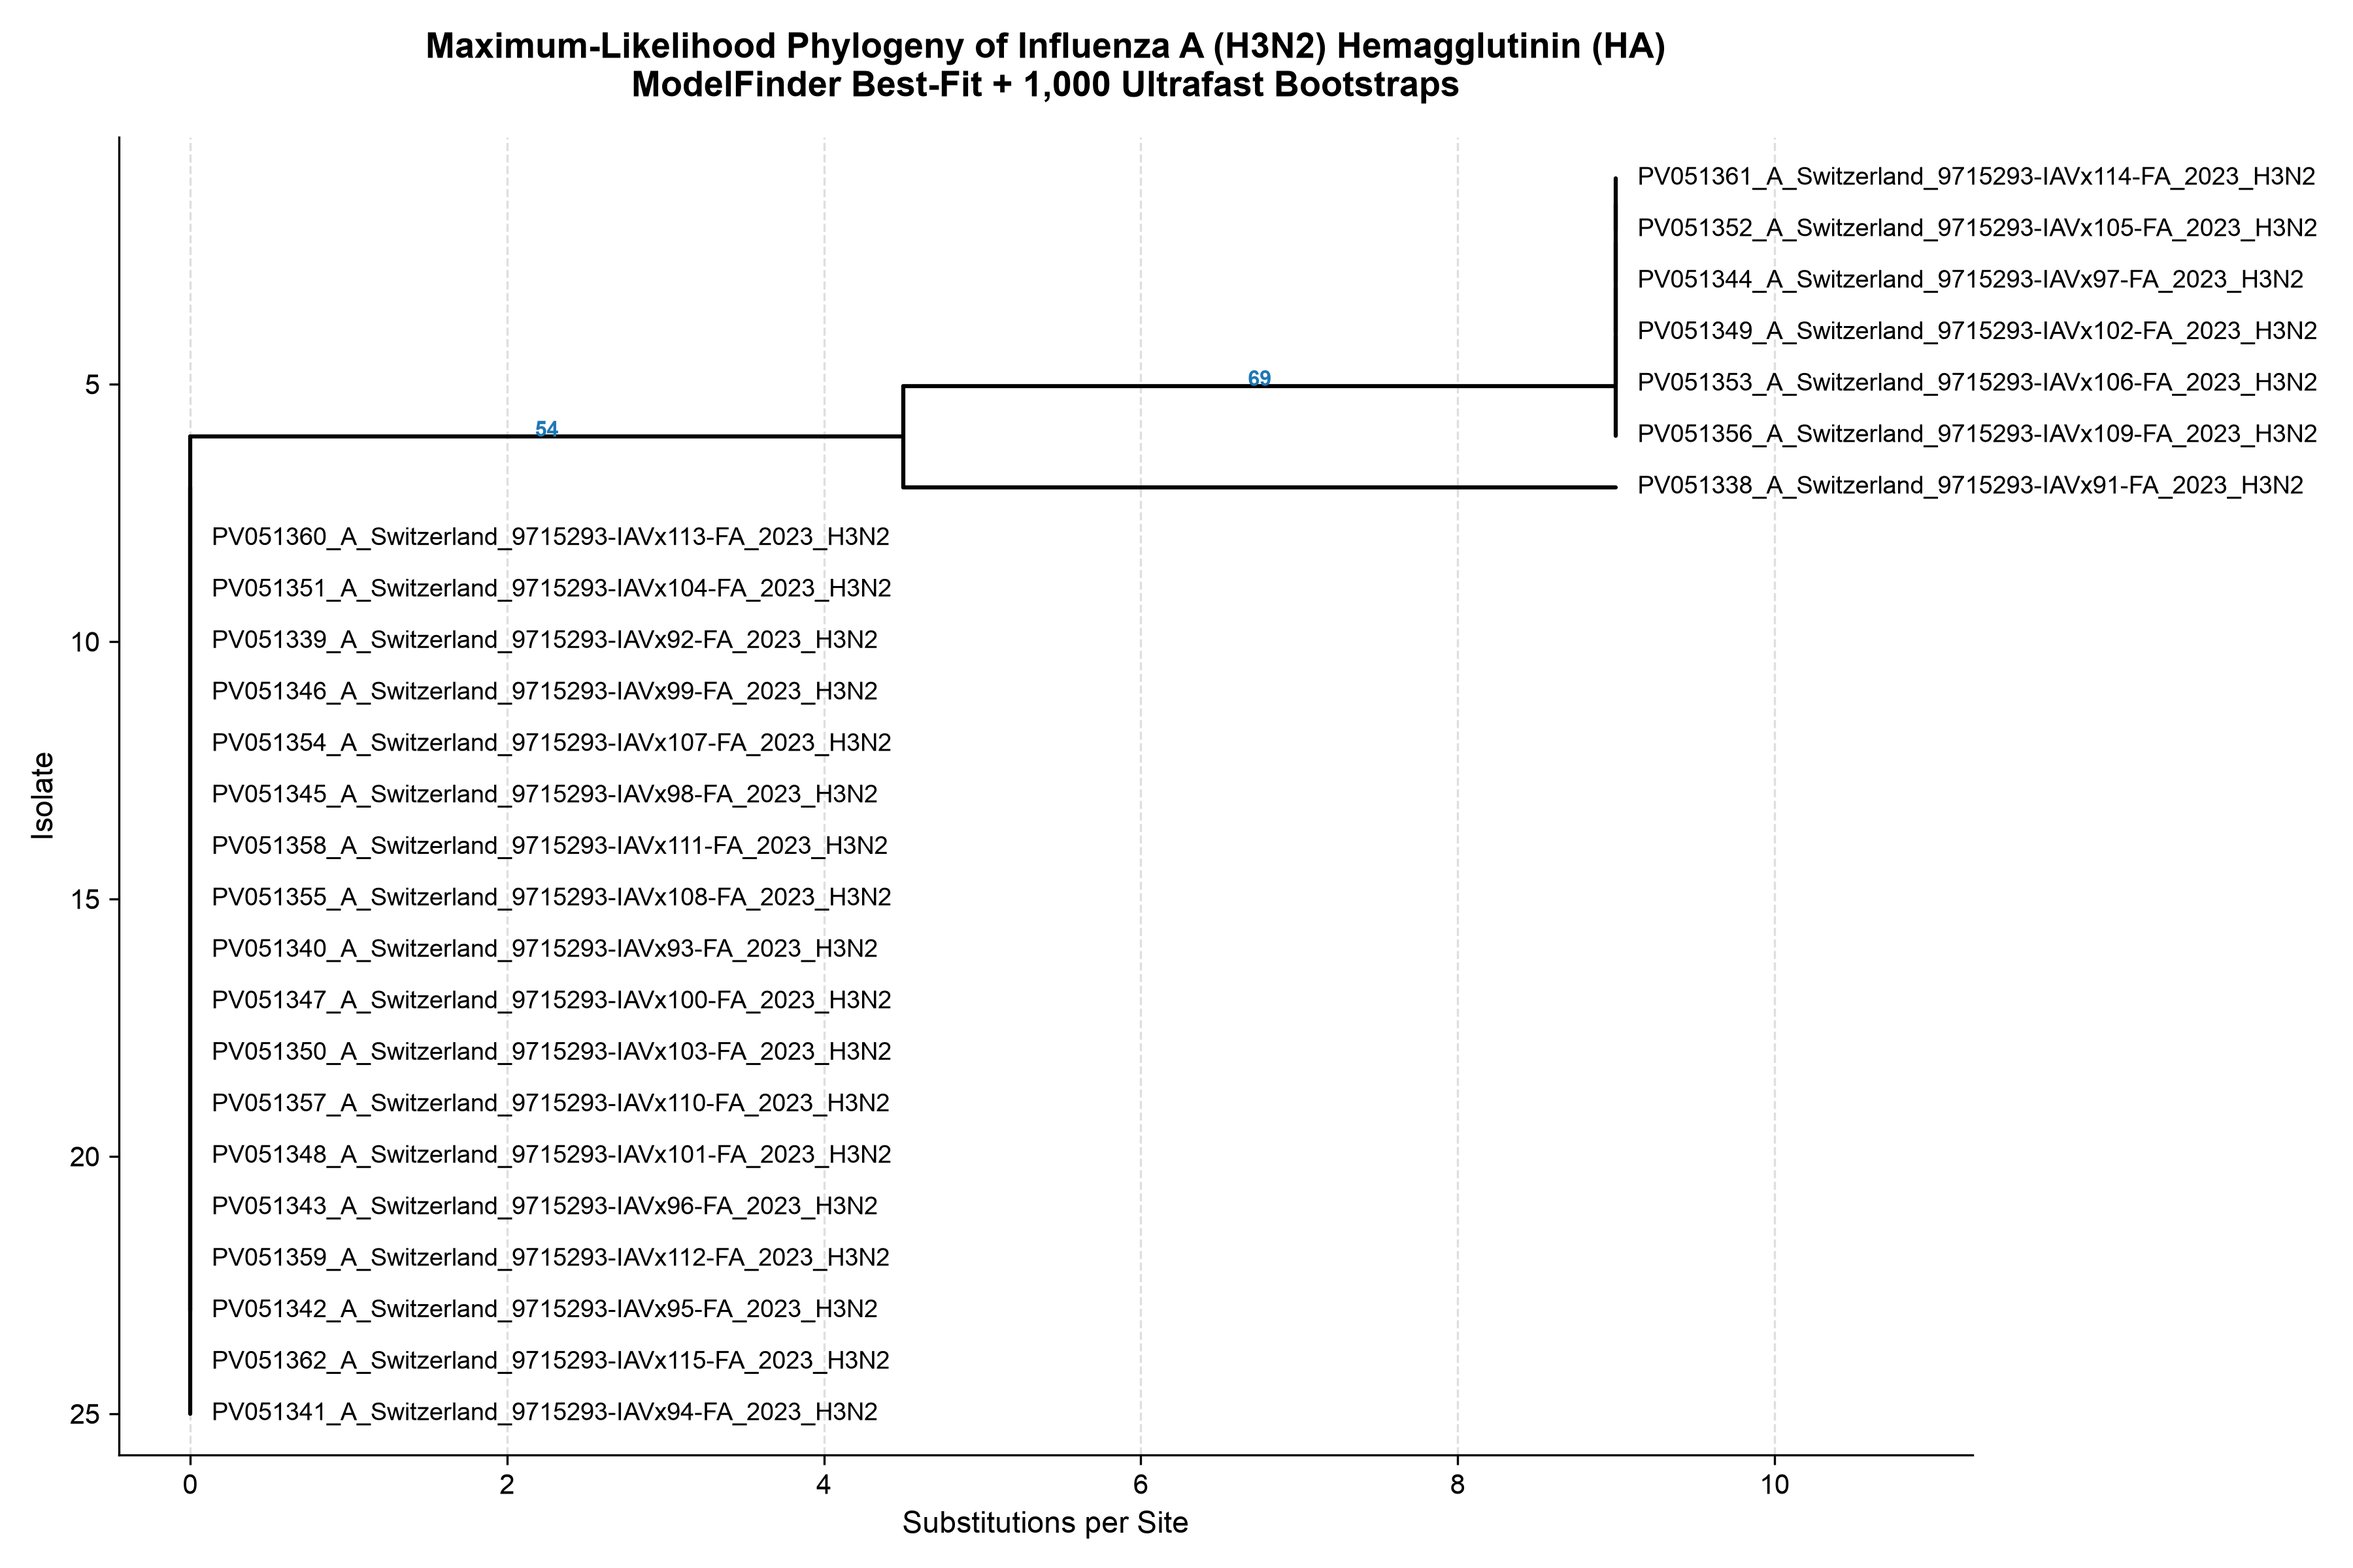
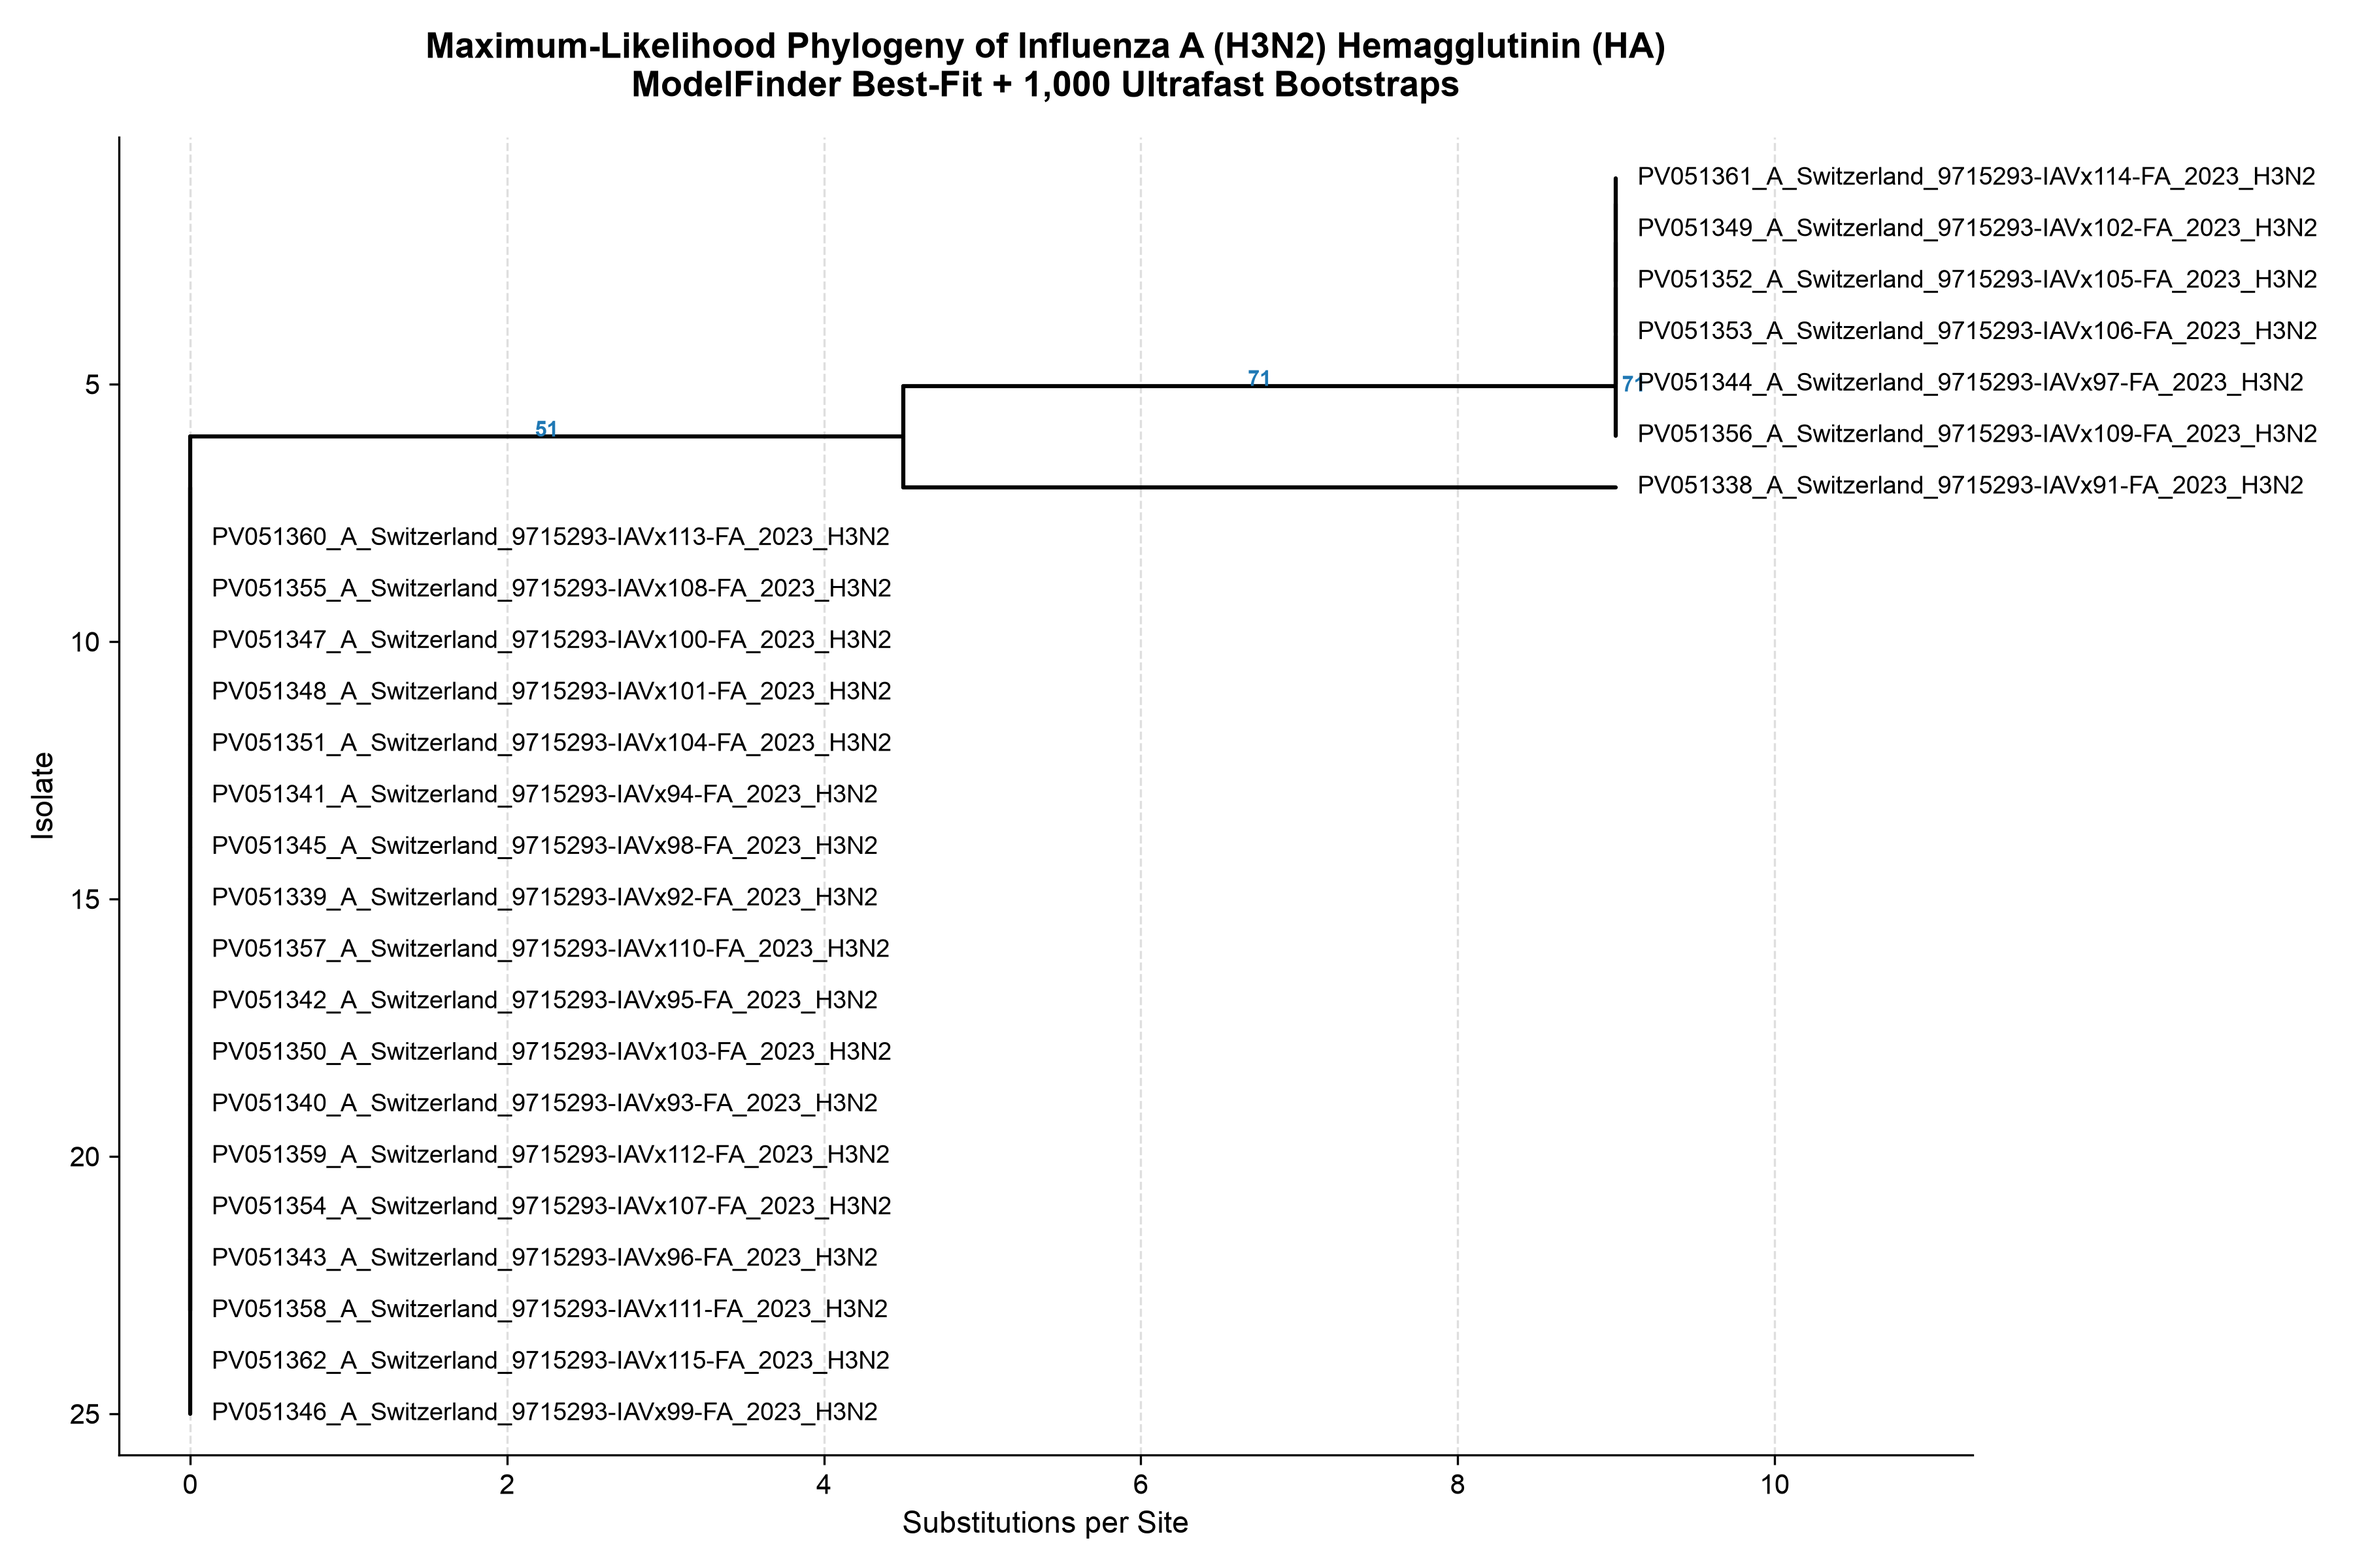
Fix x-axis scientific notation formatting on phylogeny plot

diff --git a/scripts/build_and_plot_tree.py b/scripts/build_and_plot_tree.py
@@ -36,7 +36,6 @@ def plot_phylogeny():
     fig, ax = plt.subplots(figsize=(12, 8))
     plt.rcParams["font.sans-serif"] = "Arial"
 
-    # Format bootstrap labels (show values >= 70% for readability)
     def get_label(clade):
         if clade.is_terminal():
             return f"  {clade.name}"
@@ -52,7 +51,6 @@ def plot_phylogeny():
         branch_labels=None
     )
 
-    # Style axes and typography
     ax.set_title(
         "Maximum-Likelihood Phylogeny of Influenza A (H3N2) Hemagglutinin (HA)\n"
         "ModelFinder Best-Fit + 1,000 Ultrafast Bootstraps",
@@ -60,14 +58,13 @@ def plot_phylogeny():
         fontweight="bold",
         pad=15
     )
-    ax.set_xlabel("Substitutions per Site", fontsize=11)    ax.ticklabel_format(axis="x", style="sci", scilimits=(-2, 2))
-
+    ax.set_xlabel("Substitutions per Site", fontsize=11)
+    ax.ticklabel_format(axis="x", style="sci", scilimits=(-2, 2))
     ax.set_ylabel("Isolate", fontsize=11)
     ax.spines["top"].set_visible(False)
     ax.spines["right"].set_visible(False)
     ax.grid(axis="x", linestyle="--", alpha=0.4)
 
-    # Color internal bootstrap labels blue for visual clarity
     for text in ax.texts:
         label_txt = text.get_text().strip()
         if label_txt.isdigit():
